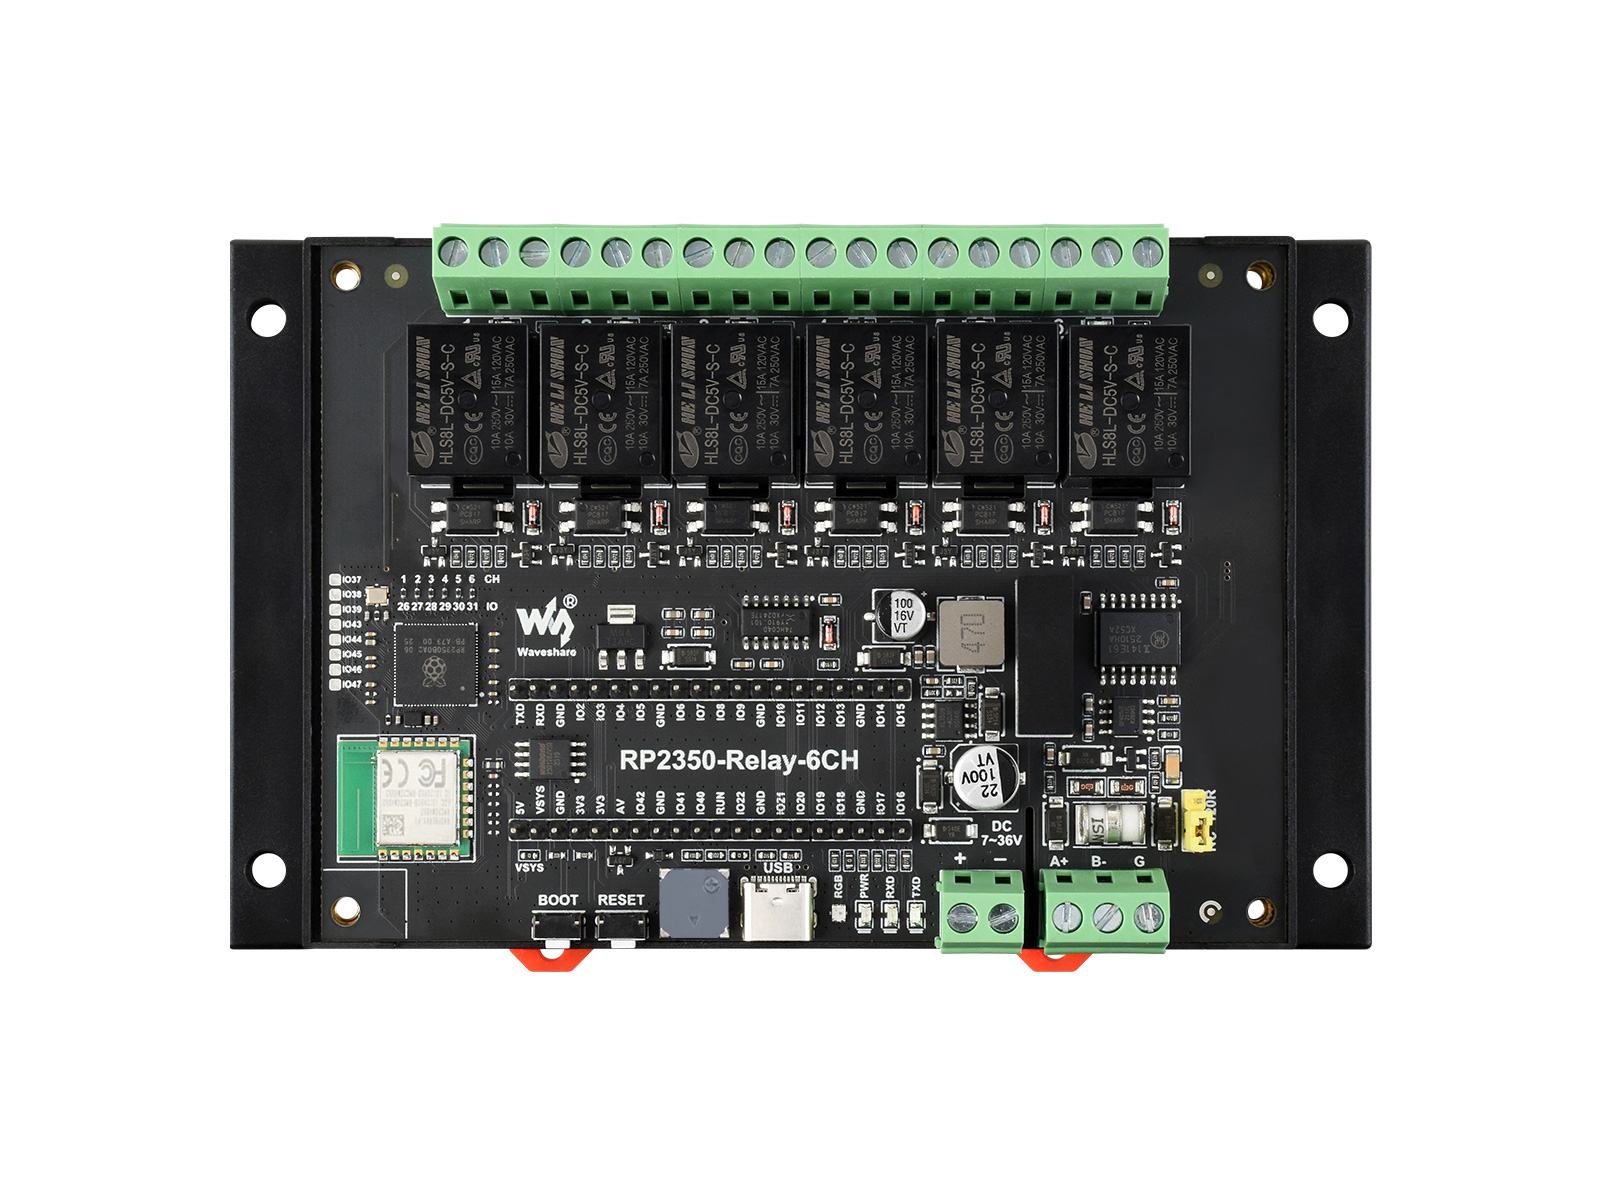
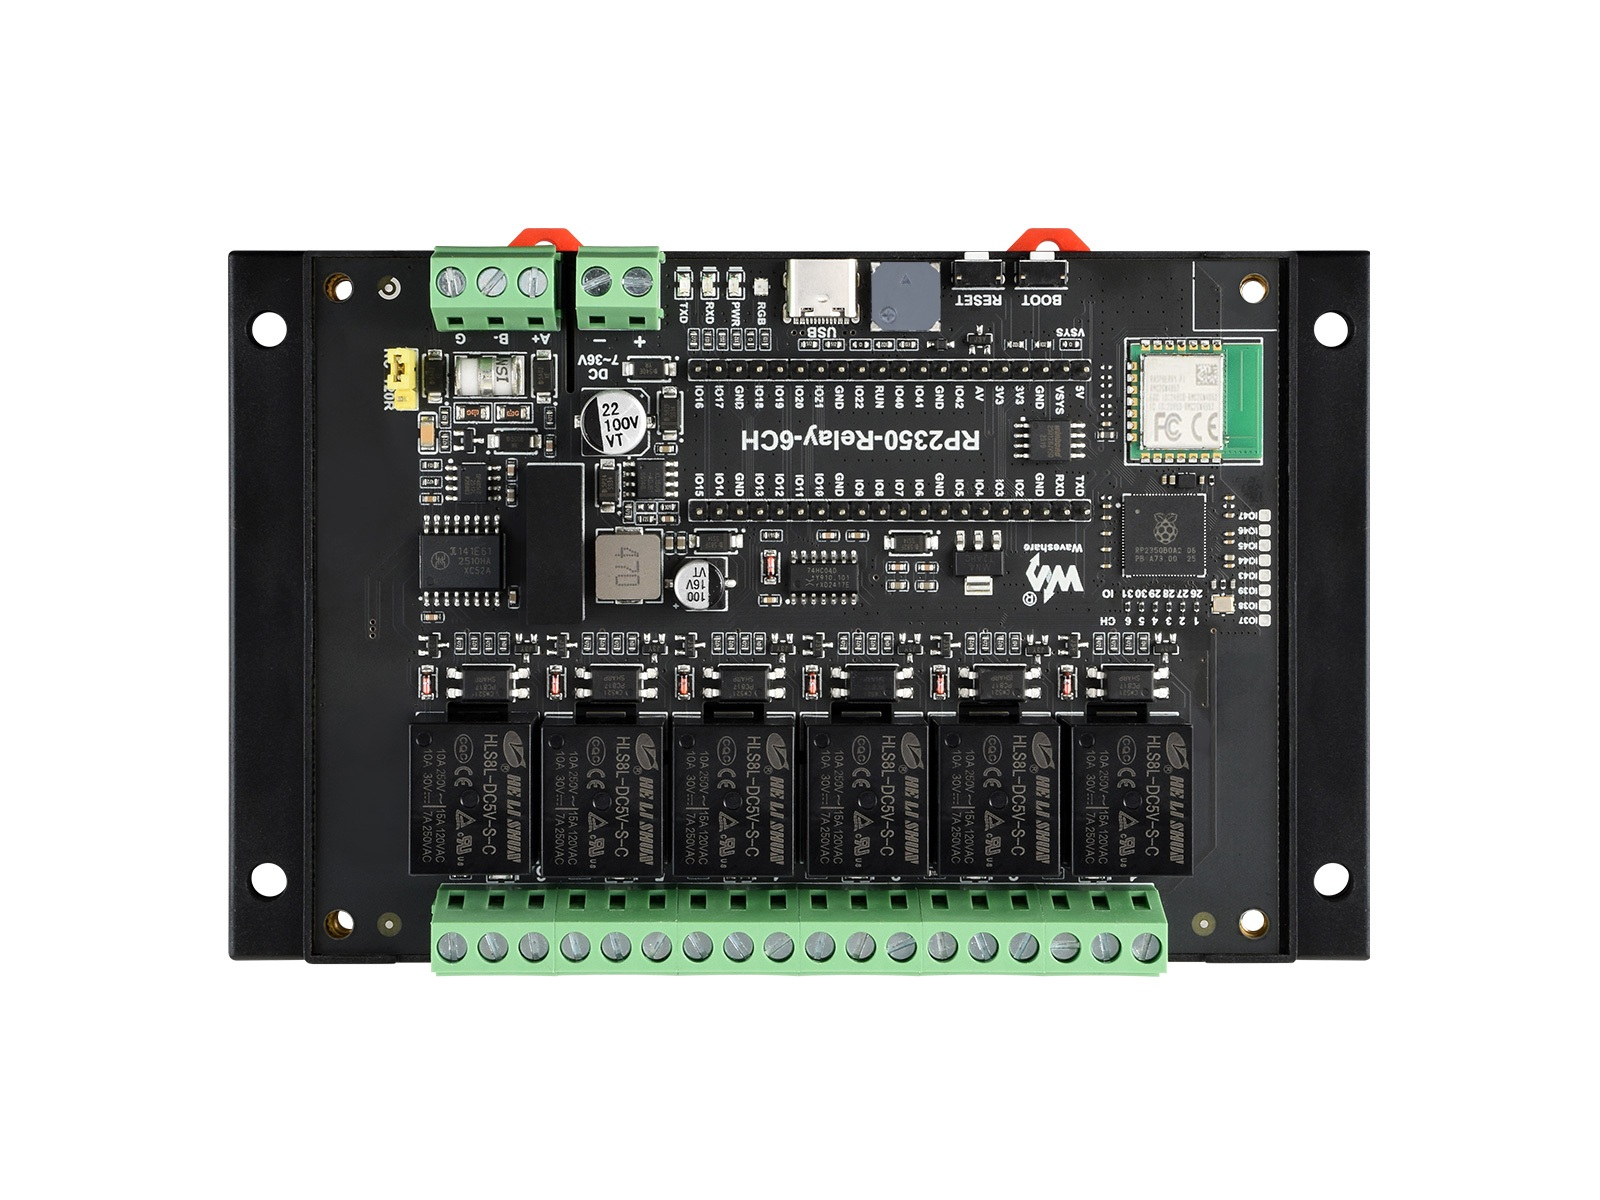
Dim local indicators
Prompt:
- User reported the buzzer was too loud, then said the first reduction made no
  obvious difference.
- User reported the RGB LED was too light.
- User asked to commit changes with prompt context.

Conversation context:
- Reduced buzzer PWM duty from 50% to 10% while preserving tone frequency and
  beep timing.
- Reduced RGB global brightness from 20% to 10% while preserving indicator
  colors and state meanings.
- Verified indicator tests passed with 50 tests and 0 failures.
- Rebuilt the Waveshare firmware UF2 successfully.

Changed region(s): [[0.125, 0.185, 0.875, 0.8325]]

diff --git a/firmware/src/indicator.c b/firmware/src/indicator.c
@@ -63,8 +63,10 @@ LOG_MODULE_REGISTER(rp2350_relay_indicator, LOG_LEVEL_INF);
 #define BEEP_OFF_MS 60U
 #define OWNER_LOST_BEEP_OFF_MS 250U
 #define BUZZER_PERIOD_NS PWM_USEC(1000)
+#define BUZZER_DUTY_NUMERATOR 1U
+#define BUZZER_DUTY_DENOMINATOR 10U
 #define RGB_BRIGHTNESS_NUMERATOR 1U
-#define RGB_BRIGHTNESS_DENOMINATOR 5U
+#define RGB_BRIGHTNESS_DENOMINATOR 10U
 
 struct indicator_state {
 	struct k_mutex lock;
@@ -1170,7 +1172,8 @@ static void render_buzzer_locked(int64_t now)
 	}
 
 	ret = buzzer_available() ? pwm_set_dt(&buzzer, BUZZER_PERIOD_NS,
-					      BUZZER_PERIOD_NS / 2U) : 0;
+					      (BUZZER_PERIOD_NS * BUZZER_DUTY_NUMERATOR) /
+					      BUZZER_DUTY_DENOMINATOR) : 0;
 	if (ret < 0) {
 		LOG_WRN_ONCE("Buzzer PWM update failed: %d", ret);
 		state.beeps_remaining = 0U;